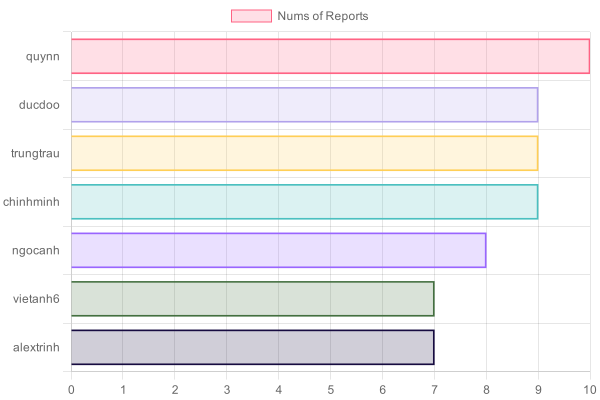
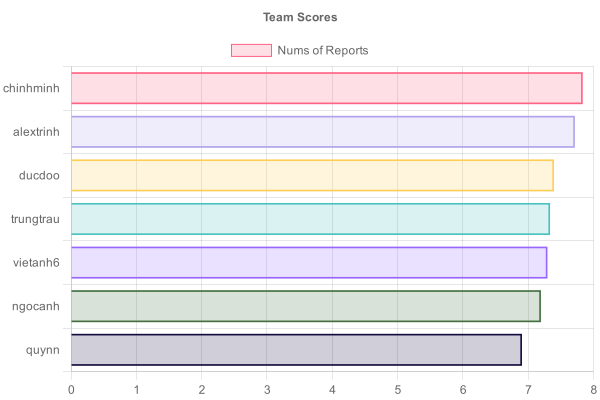
sdadas

diff --git a/app.js b/app.js
@@ -147,7 +147,46 @@ function getNumRecords() {
     return result
 }
 
-async function sendImage() {
+function getUserScore() {
+    let all_data = getUserDataFromFile()
+
+    let all_records = {}
+
+    for (var member of Object.keys(team_member)) {
+        team_member_email = team_member[member]["name"]
+        score = 0
+        number_records = 0
+        for (var date of Object.keys(all_data)) {
+            // console.log(date)
+            if (all_data[date][team_member[member]["name"]]) {
+                score += all_data[date][team_member[member]["name"]]["score"]
+                number_records += 1
+            }
+        }
+        all_records[team_member[member]["alias"]] = (score / number_records).toFixed(2)
+
+    }
+    // console.log(console.log(JSON.stringify(all_records, null, 3)))
+
+    console.log("getNumRecords return:")
+    console.log(console.log(JSON.stringify(all_records, null, 3)))
+
+    var sortedData = Object.entries(all_records).sort((a, b) => b[1] - a[1]);
+
+    const result = sortedData.reduce((acc, item) => {
+        acc[item[0]] = item[1];
+        return acc;
+    }, {});
+
+
+    console.log("result===");
+    console.log(result);
+
+    return result
+}
+
+
+async function sendChartAsImage(chartName, chartType) {
     console.log("prepare capturing 5")
 
     ACCESS_KEY_1 = "AKIA6JEDQFAH5UBN"
@@ -165,6 +204,12 @@ async function sendImage() {
     const chartJSNodeCanvas = new ChartJSNodeCanvas({ width, height, backgroundColour });
     // Define the chart options
     const options = {
+        plugins: {
+            title: {
+                display: true,
+                text: chartName
+            }
+        },
         indexAxis: 'y',
         scales: {
             xAxes: [
@@ -213,7 +258,12 @@ async function sendImage() {
         'rgba(22, 11, 64, 1)',
     ]
 
-    recoredData = getNumRecords()
+    if (chartType == SCORE_CHART_TYPE) {
+        recoredData = getUserScore()
+    } else if (chartType == REPORT_CHART_TYPE) {
+        recoredData = getNumRecords()
+    }
+
     for (var name of Object.keys(recoredData)) {
         myLabel.push(name)
         myLabelRecords.push(recoredData[name])
@@ -382,7 +432,7 @@ async function sendReport(jsonData) {
         } catch (err) {
             console.log("have error")
         }
-        
+
 
 
         console.log("merging....1");
@@ -582,9 +632,16 @@ async function sendThank(jsonData) {
     );
 }
 
+const SCORE_CHART_TYPE = "score_chart"
+const REPORT_CHART_TYPE = "report_chart"
 function getReportChart(jsonData) {
     console.log("getReportChart")
-    sendImage()
+    sendChartAsImage("Team Records", REPORT_CHART_TYPE)
+}
+
+function getScoreChart(jsonData) {
+    console.log("getReportChart")
+    sendChartAsImage("Team Scores", SCORE_CHART_TYPE)
 }
 
 function showHelp(jsonData) {
@@ -699,6 +756,8 @@ app.post('/doTask', function (req, res) {
                 sendReport(jsonData)
             } else if (jsonData["text"].startsWith("Raven Show Reports")) {
                 getReportChart(jsonData)
+            } else if (jsonData["text"].startsWith("Raven Show Score")) {
+                getScoreChart(jsonData)
             } else if (jsonData["text"].startsWith("Raven Thank")) {
                 sendThank(jsonData)
             } else if (jsonData["text"].startsWith("Raven Daily Remind")) {

diff --git a/z_test.py b/z_test.py
@@ -5,8 +5,6 @@ import json
 url = ""
 my_text = ""
 myobj = {}
-    # url2= 'https://chat.gameloft.org/hooks/zgzs61kbmtbiuradjy6ut6oi8a'
-    # myobj2 = {'text': "Khả năng cao con quạ không ai cứu nổi, trong thời gian chờ đợi, anh em report tạm vào thread tương ứng cho mỗi ngày nha\n## Report 2022-02-01"}
 
 if sys.argv[1] == 'doReport':
     print(sys.argv[1])
@@ -19,18 +17,19 @@ elif sys.argv[1] == 'doShowReport':
     data["text"] = "Raven Show Reports"
     data["user_name"] = "anh.nguyenviet6"
     myobj = data
-elif sys.argv[1] == 'doShowScores':
+elif sys.argv[1] == 'doShowScore':
+    data = {}
+    data["text"] = "Raven Show Score"
+    data["user_name"] = "anh.nguyenviet6"
+    myobj = data
+elif sys.argv[1] == 'doShowReport':
     data = {}
     data["text"] = "Raven Show Reports"
     data["user_name"] = "anh.nguyenviet6"
     myobj = data
 
-
-
 url = 'http://127.0.0.1:3000/doTask'
 x = requests.post(url, json = myobj)
-# # x2 = requests.post(url2, json = myobj2)
-# x3 = requests.post(url3, json = myobj3)
+
 
 print(x.text)
-# # print(x2.text)cls
